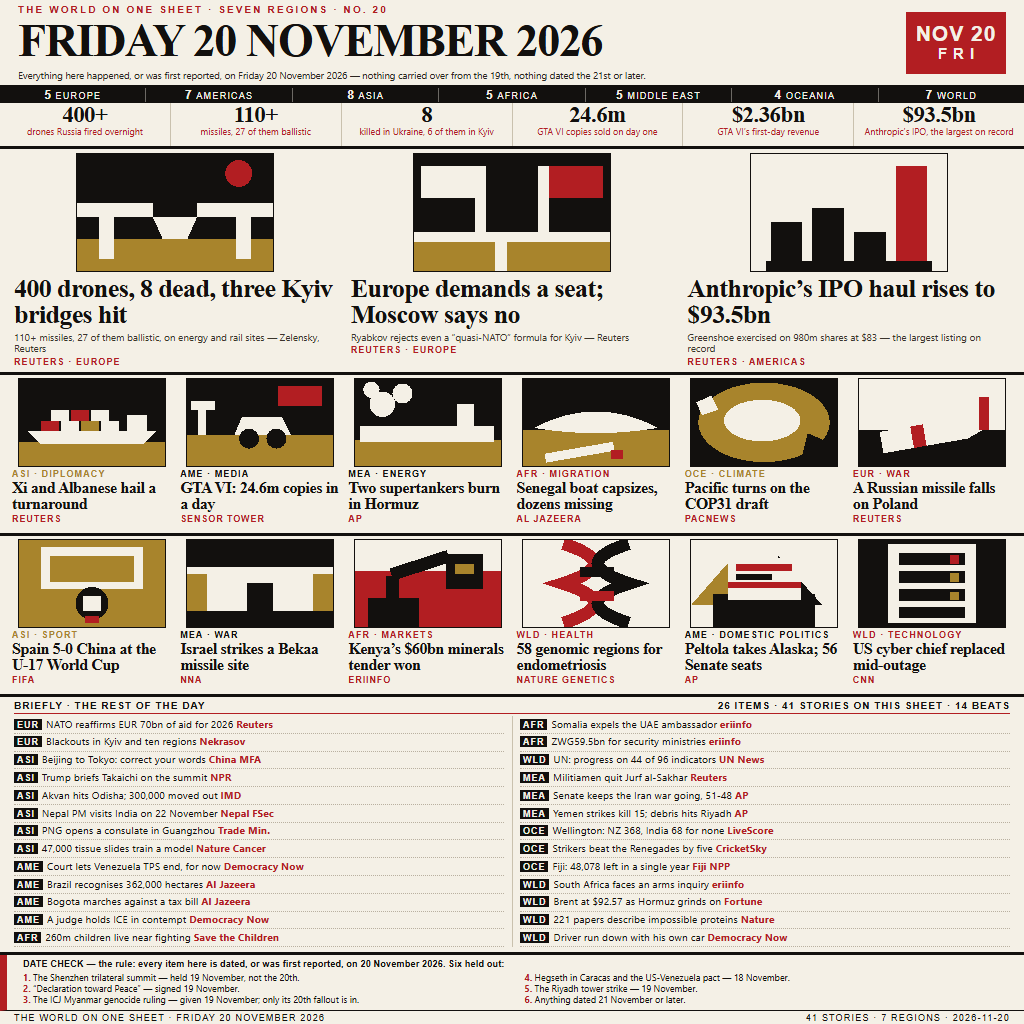
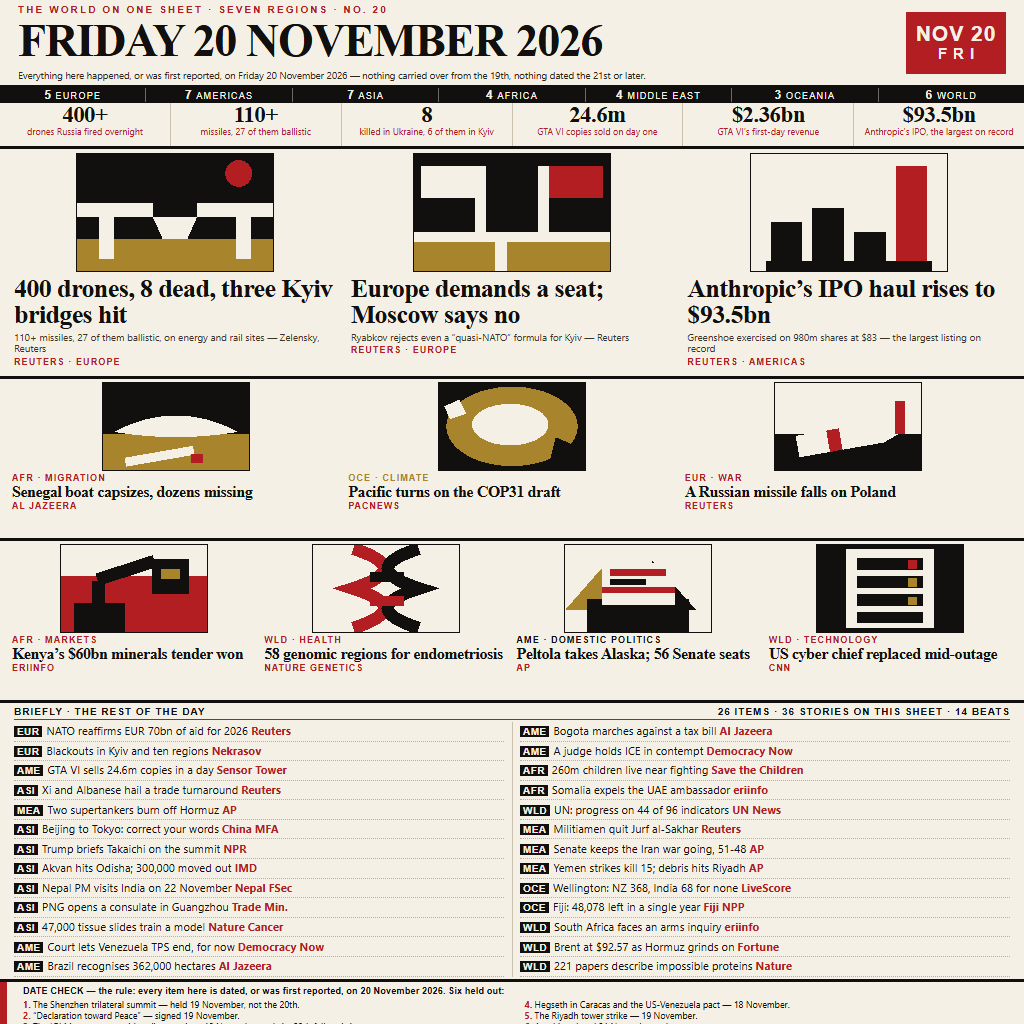
Revise: 36 stories in 2 columns at 11.2px, 10 larger drawings, date-check kept

Changed region(s): [[0.0, 0.3438, 1.0, 1.0]]

diff --git a/page.html b/page.html
@@ -35,7 +35,7 @@ html,body{width:1024px;height:1024px;overflow:hidden;background:#f4f0e6;color:#1
 .numbers .lb{font-family:"Segoe UI",Arial,sans-serif;font-size:9px;line-height:10.4px;color:#b21e22;
   text-align:center;max-width:100%;height:21px;overflow:visible}
 
-.leads{height:226px;display:flex;padding:4px 14px 4px;gap:14px;border-bottom:3px solid #12100e}
+.leads{height:230px;display:flex;padding:4px 14px 4px;gap:14px;border-bottom:3px solid #12100e}
 .lead{flex:1;min-width:0;display:flex;flex-direction:column}
 .lead .artbox{width:198px;height:118.8px;margin:0 auto;border:1px solid #12100e}
 .lead h2{font-size:26px;line-height:26px;font-weight:700;letter-spacing:-.6px;margin-top:4px}
@@ -44,8 +44,8 @@ html,body{width:1024px;height:1024px;overflow:hidden;background:#f4f0e6;color:#1
 .lead .ft{font-family:Arial,Helvetica,sans-serif;font-size:9px;letter-spacing:1.1px;
   text-transform:uppercase;margin-top:3px;color:#b21e22;font-weight:700}
 
-.bandrow{height:161px;display:flex;padding:3px 12px;gap:9px;border-bottom:3px solid #12100e}
-.bandrow.b{height:161px}
+.bandrow{height:162px;display:flex;padding:3px 12px;gap:9px;border-bottom:3px solid #12100e}
+.bandrow.b{height:162px}
 .card{flex:1;min-width:0;display:flex;flex-direction:column}
 .card .artbox{width:148px;height:88.8px;margin:0 auto;border:1px solid #12100e}
 .card .tag{font-family:Arial,Helvetica,sans-serif;font-size:9px;font-weight:700;letter-spacing:1.1px;
@@ -54,15 +54,15 @@ html,body{width:1024px;height:1024px;overflow:hidden;background:#f4f0e6;color:#1
 .card .cft{font-family:Arial,Helvetica,sans-serif;font-size:9px;letter-spacing:.9px;
   text-transform:uppercase;color:#b21e22;font-weight:700;margin-top:1px;line-height:10px}
 
-.briefs{height:258px;padding:2px 14px 2px;border-bottom:3px solid #12100e}
+.briefs{height:279px;padding:2px 14px 2px;border-bottom:3px solid #12100e}
 .bh{font-family:Arial,Helvetica,sans-serif;font-size:10px;font-weight:700;letter-spacing:1.9px;
   text-transform:uppercase;color:#b21e22;line-height:14px;border-bottom:1px solid #b21e22;
   margin-bottom:2px;display:flex;justify-content:space-between}
 .bh span{color:#12100e;letter-spacing:1px}
 .bcols{columns:2;column-gap:16px;column-rule:1px solid #c9c1ae}
-.brief{font-family:"Segoe UI",Arial,sans-serif;font-size:10.4px;line-height:11.8px;
-  padding:2.6px 0 2.4px;border-bottom:1px dotted #b9b0a0;break-inside:avoid}
-.brief .rt{font-family:Arial,Helvetica,sans-serif;font-size:9.4px;font-weight:700;letter-spacing:.7px;
+.brief{font-family:"Segoe UI",Arial,sans-serif;font-size:11.2px;line-height:13.2px;
+  padding:2.2px 0 2.2px;border-bottom:1px dotted #b9b0a0;break-inside:avoid}
+.brief .rt{font-family:Arial,Helvetica,sans-serif;font-size:9.6px;font-weight:700;letter-spacing:.7px;
   background:#12100e;color:#f4f0e6;padding:0 3px;margin-right:4px}
 .brief .ot{color:#b21e22;font-weight:700}
 
@@ -88,7 +88,7 @@ html,body{width:1024px;height:1024px;overflow:hidden;background:#f4f0e6;color:#1
     <div class="redblock"><div class="big">NOV 20</div><div class="sm">FRI</div></div>
   </div>
 
-  <div class="band tally"><div data-region-tally="Europe"><b>5</b>Europe</div><div data-region-tally="Americas"><b>7</b>Americas</div><div data-region-tally="Asia"><b>8</b>Asia</div><div data-region-tally="Africa"><b>5</b>Africa</div><div data-region-tally="Middle East"><b>5</b>Middle East</div><div data-region-tally="Oceania"><b>4</b>Oceania</div><div data-region-tally="World"><b>7</b>World</div></div>
+  <div class="band tally"><div data-region-tally="Europe"><b>5</b>Europe</div><div data-region-tally="Americas"><b>7</b>Americas</div><div data-region-tally="Asia"><b>7</b>Asia</div><div data-region-tally="Africa"><b>4</b>Africa</div><div data-region-tally="Middle East"><b>4</b>Middle East</div><div data-region-tally="Oceania"><b>3</b>Oceania</div><div data-region-tally="World"><b>6</b>World</div></div>
 
   <div class="band numbers"><div class="n"><div class="v">400+</div><div class="lb">drones Russia fired overnight</div></div><div class="n"><div class="v">110+</div><div class="lb">missiles, 27 of them ballistic</div></div><div class="n"><div class="v">8</div><div class="lb">killed in Ukraine, 6 of them in Kyiv</div></div><div class="n"><div class="v">24.6m</div><div class="lb">GTA VI copies sold on day one</div></div><div class="n"><div class="v">$2.36bn</div><div class="lb">GTA VI’s first-day revenue</div></div><div class="n"><div class="v">$93.5bn</div><div class="lb">Anthropic’s IPO, the largest on record</div></div></div>
 
@@ -131,49 +131,7 @@ html,body{width:1024px;height:1024px;overflow:hidden;background:#f4f0e6;color:#1
       <div class="ft">Reuters · Americas</div>
     </div></div>
 
-  <div class="band bandrow"><div class="card" data-region="Asia" data-beat="diplomacy" data-outlet="Reuters">
-      <div class="artbox" data-art="ship"><svg aria-label="Xi and Albanese hail a turnaround" viewBox="0 0 160 96" width="100%" height="100%" preserveAspectRatio="none" shape-rendering="crispEdges">
-  <rect x="0" y="0" width="160" height="96" fill="#12100e"/>
-  <rect x="0" y="70" width="160" height="26" fill="#a8842c"/>
-  <polygon points="10,58 150,58 136,72 24,72" fill="#f4f0e6"/>
-  <rect x="118" y="40" width="22" height="18" fill="#f4f0e6"/>
-  <rect x="24" y="46" width="20" height="12" fill="#b21e22"/>
-  <rect x="46" y="46" width="20" height="12" fill="#f4f0e6"/>
-  <rect x="68" y="46" width="20" height="12" fill="#a8842c"/>
-  <rect x="90" y="46" width="20" height="12" fill="#f4f0e6"/>
-  <rect x="35" y="34" width="20" height="12" fill="#f4f0e6"/>
-  <rect x="57" y="34" width="20" height="12" fill="#b21e22"/>
-  <rect x="79" y="34" width="20" height="12" fill="#f4f0e6"/></svg></div>
-      <div class="tag" style="color:#a8842c">ASI · diplomacy</div>
-      <h3>Xi and Albanese hail a turnaround</h3>
-      <div class="cft">Reuters</div>
-    </div><div class="card" data-region="Americas" data-beat="media" data-outlet="Sensor Tower">
-      <div class="artbox" data-art="car"><svg aria-label="GTA VI: 24.6m copies in a day" viewBox="0 0 160 96" width="100%" height="100%" preserveAspectRatio="none" shape-rendering="crispEdges">
-  <rect x="0" y="0" width="160" height="96" fill="#12100e"/>
-  <rect x="0" y="62" width="160" height="34" fill="#a8842c"/>
-  <rect x="100" y="8" width="48" height="22" fill="#b21e22"/>
-  <rect x="12" y="34" width="9" height="28" fill="#f4f0e6"/>
-  <rect x="4" y="24" width="13" height="10" fill="#f4f0e6"/>
-  <rect x="18" y="24" width="13" height="10" fill="#f4f0e6"/>
-  <polygon points="52,62 60,42 104,42 114,62" fill="#f4f0e6"/>
-  <circle cx="68" cy="66" r="11" fill="#12100e"/>
-  <circle cx="98" cy="66" r="11" fill="#12100e"/></svg></div>
-      <div class="tag" style="color:#12100e">AME · media</div>
-      <h3>GTA VI: 24.6m copies in a day</h3>
-      <div class="cft">Sensor Tower</div>
-    </div><div class="card" data-region="Middle East" data-beat="energy" data-outlet="AP">
-      <div class="artbox" data-art="tanker"><svg aria-label="Two supertankers burn in Hormuz" viewBox="0 0 160 96" width="100%" height="100%" preserveAspectRatio="none" shape-rendering="crispEdges">
-  <rect x="0" y="0" width="160" height="96" fill="#12100e"/>
-  <rect x="0" y="68" width="160" height="28" fill="#a8842c"/>
-  <rect x="6" y="52" width="146" height="18" fill="#f4f0e6"/>
-  <rect x="112" y="28" width="18" height="26" fill="#f4f0e6"/>
-  <circle cx="30" cy="28" r="14" fill="#f4f0e6"/>
-  <circle cx="52" cy="16" r="11" fill="#f4f0e6"/>
-  <circle cx="18" cy="12" r="9" fill="#f4f0e6"/></svg></div>
-      <div class="tag" style="color:#12100e">MEA · energy</div>
-      <h3>Two supertankers burn in Hormuz</h3>
-      <div class="cft">AP</div>
-    </div><div class="card" data-region="Africa" data-beat="migration" data-outlet="Al Jazeera">
+  <div class="band bandrow"><div class="card" data-region="Africa" data-beat="migration" data-outlet="Al Jazeera">
       <div class="artbox" data-art="pirogue"><svg aria-label="Senegal boat capsizes, dozens missing" viewBox="0 0 160 96" width="100%" height="100%" preserveAspectRatio="none" shape-rendering="crispEdges">
   <rect x="0" y="0" width="160" height="96" fill="#12100e"/>
   <rect x="0" y="56" width="160" height="40" fill="#a8842c"/>
@@ -211,31 +169,7 @@ html,body{width:1024px;height:1024px;overflow:hidden;background:#f4f0e6;color:#1
       <div class="cft">Reuters</div>
     </div></div>
 
-  <div class="band bandrow b"><div class="card" data-region="Asia" data-beat="sport" data-outlet="FIFA">
-      <div class="artbox" data-art="football"><svg aria-label="Spain 5-0 China at the U-17 World Cup" viewBox="0 0 160 96" width="100%" height="100%" preserveAspectRatio="none" shape-rendering="crispEdges">
-  <rect x="0" y="0" width="160" height="96" fill="#a8842c"/>
-  <rect x="24" y="8" width="112" height="10" fill="#f4f0e6"/>
-  <rect x="24" y="8" width="10" height="46" fill="#f4f0e6"/>
-  <rect x="126" y="8" width="10" height="46" fill="#f4f0e6"/>
-  <rect x="34" y="46" width="92" height="8" fill="#f4f0e6"/>
-  <circle cx="80" cy="70" r="18" fill="#12100e"/>
-  <rect x="70" y="62" width="20" height="16" fill="#f4f0e6"/>
-  <rect x="72" y="84" width="16" height="8" fill="#b21e22"/></svg></div>
-      <div class="tag" style="color:#a8842c">ASI · sport</div>
-      <h3>Spain 5-0 China at the U-17 World Cup</h3>
-      <div class="cft">FIFA</div>
-    </div><div class="card" data-region="Middle East" data-beat="war" data-outlet="NNA">
-      <div class="artbox" data-art="bunker"><svg aria-label="Israel strikes a Bekaa missile site" viewBox="0 0 160 96" width="100%" height="100%" preserveAspectRatio="none" shape-rendering="crispEdges">
-  <rect x="0" y="0" width="160" height="96" fill="#a8842c"/>
-  <rect x="0" y="0" width="160" height="30" fill="#12100e"/>
-  <rect x="0" y="30" width="160" height="8" fill="#f4f0e6"/>
-  <rect x="22" y="38" width="116" height="40" fill="#f4f0e6"/>
-  <rect x="66" y="48" width="28" height="30" fill="#12100e"/>
-  <rect x="0" y="78" width="160" height="18" fill="#12100e"/></svg></div>
-      <div class="tag" style="color:#12100e">MEA · war</div>
-      <h3>Israel strikes a Bekaa missile site</h3>
-      <div class="cft">NNA</div>
-    </div><div class="card" data-region="Africa" data-beat="markets" data-outlet="eriinfo">
+  <div class="band bandrow b"><div class="card" data-region="Africa" data-beat="markets" data-outlet="eriinfo">
       <div class="artbox" data-art="excavator"><svg aria-label="Kenya’s $60bn minerals tender won" viewBox="0 0 160 96" width="100%" height="100%" preserveAspectRatio="none" shape-rendering="crispEdges">
   <rect x="0" y="0" width="160" height="96" fill="#b21e22"/>
   <rect x="0" y="0" width="160" height="34" fill="#f4f0e6"/>
@@ -288,8 +222,8 @@ html,body{width:1024px;height:1024px;overflow:hidden;background:#f4f0e6;color:#1
     </div></div>
 
   <div class="band briefs">
-    <div class="bh"><span>Briefly · the rest of the day</span><span>26 items · 41 stories on this sheet · 14 beats</span></div>
-    <div class="bcols"><div class="brief" data-region="Europe" data-beat="markets" data-outlet="Reuters"><span class="rt">EUR</span>NATO reaffirms EUR 70bn of aid for 2026 <span class="ot">Reuters</span></div><div class="brief" data-region="Europe" data-beat="energy" data-outlet="Nekrasov"><span class="rt">EUR</span>Blackouts in Kyiv and ten regions <span class="ot">Nekrasov</span></div><div class="brief" data-region="Asia" data-beat="diplomacy" data-outlet="China MFA"><span class="rt">ASI</span>Beijing to Tokyo: correct your words <span class="ot">China MFA</span></div><div class="brief" data-region="Asia" data-beat="diplomacy" data-outlet="NPR"><span class="rt">ASI</span>Trump briefs Takaichi on the summit <span class="ot">NPR</span></div><div class="brief" data-region="Asia" data-beat="disaster" data-outlet="IMD"><span class="rt">ASI</span>Akvan hits Odisha; 300,000 moved out <span class="ot">IMD</span></div><div class="brief" data-region="Asia" data-beat="diplomacy" data-outlet="Nepal FSec"><span class="rt">ASI</span>Nepal PM visits India on 22 November <span class="ot">Nepal FSec</span></div><div class="brief" data-region="Asia" data-beat="markets" data-outlet="Trade Min."><span class="rt">ASI</span>PNG opens a consulate in Guangzhou <span class="ot">Trade Min.</span></div><div class="brief" data-region="Asia" data-beat="science" data-outlet="Nature Cancer"><span class="rt">ASI</span>47,000 tissue slides train a model <span class="ot">Nature Cancer</span></div><div class="brief" data-region="Americas" data-beat="courts" data-outlet="Democracy Now"><span class="rt">AME</span>Court lets Venezuela TPS end, for now <span class="ot">Democracy Now</span></div><div class="brief" data-region="Americas" data-beat="climate" data-outlet="Al Jazeera"><span class="rt">AME</span>Brazil recognises 362,000 hectares <span class="ot">Al Jazeera</span></div><div class="brief" data-region="Americas" data-beat="domestic politics" data-outlet="Al Jazeera"><span class="rt">AME</span>Bogota marches against a tax bill <span class="ot">Al Jazeera</span></div><div class="brief" data-region="Americas" data-beat="courts" data-outlet="Democracy Now"><span class="rt">AME</span>A judge holds ICE in contempt <span class="ot">Democracy Now</span></div><div class="brief" data-region="Africa" data-beat="war" data-outlet="Save the Children"><span class="rt">AFR</span>260m children live near fighting <span class="ot">Save the Children</span></div><div class="brief" data-region="Africa" data-beat="diplomacy" data-outlet="eriinfo"><span class="rt">AFR</span>Somalia expels the UAE ambassador <span class="ot">eriinfo</span></div><div class="brief" data-region="Africa" data-beat="markets" data-outlet="eriinfo"><span class="rt">AFR</span>ZWG59.5bn for security ministries <span class="ot">eriinfo</span></div><div class="brief" data-region="World" data-beat="climate" data-outlet="UN News"><span class="rt">WLD</span>UN: progress on 44 of 96 indicators <span class="ot">UN News</span></div><div class="brief" data-region="Middle East" data-beat="war" data-outlet="Reuters"><span class="rt">MEA</span>Militiamen quit Jurf al-Sakhar <span class="ot">Reuters</span></div><div class="brief" data-region="Middle East" data-beat="domestic politics" data-outlet="AP"><span class="rt">MEA</span>Senate keeps the Iran war going, 51-48 <span class="ot">AP</span></div><div class="brief" data-region="Middle East" data-beat="war" data-outlet="AP"><span class="rt">MEA</span>Yemen strikes kill 15; debris hits Riyadh <span class="ot">AP</span></div><div class="brief" data-region="Oceania" data-beat="sport" data-outlet="LiveScore"><span class="rt">OCE</span>Wellington: NZ 368, India 68 for none <span class="ot">LiveScore</span></div><div class="brief" data-region="Oceania" data-beat="sport" data-outlet="CricketSky"><span class="rt">OCE</span>Strikers beat the Renegades by five <span class="ot">CricketSky</span></div><div class="brief" data-region="Oceania" data-beat="migration" data-outlet="Fiji NPP"><span class="rt">OCE</span>Fiji: 48,078 left in a single year <span class="ot">Fiji NPP</span></div><div class="brief" data-region="World" data-beat="courts" data-outlet="eriinfo"><span class="rt">WLD</span>South Africa faces an arms inquiry <span class="ot">eriinfo</span></div><div class="brief" data-region="World" data-beat="energy" data-outlet="Fortune"><span class="rt">WLD</span>Brent at $92.57 as Hormuz grinds on <span class="ot">Fortune</span></div><div class="brief" data-region="World" data-beat="science" data-outlet="Nature"><span class="rt">WLD</span>221 papers describe impossible proteins <span class="ot">Nature</span></div><div class="brief" data-region="World" data-beat="domestic politics" data-outlet="Democracy Now"><span class="rt">WLD</span>Driver run down with his own car <span class="ot">Democracy Now</span></div></div>
+    <div class="bh"><span>Briefly · the rest of the day</span><span>26 items · 36 stories on this sheet · 14 beats</span></div>
+    <div class="bcols"><div class="brief" data-region="Europe" data-beat="markets" data-outlet="Reuters"><span class="rt">EUR</span>NATO reaffirms EUR 70bn of aid for 2026 <span class="ot">Reuters</span></div><div class="brief" data-region="Europe" data-beat="energy" data-outlet="Nekrasov"><span class="rt">EUR</span>Blackouts in Kyiv and ten regions <span class="ot">Nekrasov</span></div><div class="brief" data-region="Americas" data-beat="media" data-outlet="Sensor Tower"><span class="rt">AME</span>GTA VI sells 24.6m copies in a day <span class="ot">Sensor Tower</span></div><div class="brief" data-region="Asia" data-beat="diplomacy" data-outlet="Reuters"><span class="rt">ASI</span>Xi and Albanese hail a trade turnaround <span class="ot">Reuters</span></div><div class="brief" data-region="Middle East" data-beat="energy" data-outlet="AP"><span class="rt">MEA</span>Two supertankers burn off Hormuz <span class="ot">AP</span></div><div class="brief" data-region="Asia" data-beat="diplomacy" data-outlet="China MFA"><span class="rt">ASI</span>Beijing to Tokyo: correct your words <span class="ot">China MFA</span></div><div class="brief" data-region="Asia" data-beat="diplomacy" data-outlet="NPR"><span class="rt">ASI</span>Trump briefs Takaichi on the summit <span class="ot">NPR</span></div><div class="brief" data-region="Asia" data-beat="disaster" data-outlet="IMD"><span class="rt">ASI</span>Akvan hits Odisha; 300,000 moved out <span class="ot">IMD</span></div><div class="brief" data-region="Asia" data-beat="diplomacy" data-outlet="Nepal FSec"><span class="rt">ASI</span>Nepal PM visits India on 22 November <span class="ot">Nepal FSec</span></div><div class="brief" data-region="Asia" data-beat="markets" data-outlet="Trade Min."><span class="rt">ASI</span>PNG opens a consulate in Guangzhou <span class="ot">Trade Min.</span></div><div class="brief" data-region="Asia" data-beat="science" data-outlet="Nature Cancer"><span class="rt">ASI</span>47,000 tissue slides train a model <span class="ot">Nature Cancer</span></div><div class="brief" data-region="Americas" data-beat="courts" data-outlet="Democracy Now"><span class="rt">AME</span>Court lets Venezuela TPS end, for now <span class="ot">Democracy Now</span></div><div class="brief" data-region="Americas" data-beat="climate" data-outlet="Al Jazeera"><span class="rt">AME</span>Brazil recognises 362,000 hectares <span class="ot">Al Jazeera</span></div><div class="brief" data-region="Americas" data-beat="domestic politics" data-outlet="Al Jazeera"><span class="rt">AME</span>Bogota marches against a tax bill <span class="ot">Al Jazeera</span></div><div class="brief" data-region="Americas" data-beat="courts" data-outlet="Democracy Now"><span class="rt">AME</span>A judge holds ICE in contempt <span class="ot">Democracy Now</span></div><div class="brief" data-region="Africa" data-beat="war" data-outlet="Save the Children"><span class="rt">AFR</span>260m children live near fighting <span class="ot">Save the Children</span></div><div class="brief" data-region="Africa" data-beat="diplomacy" data-outlet="eriinfo"><span class="rt">AFR</span>Somalia expels the UAE ambassador <span class="ot">eriinfo</span></div><div class="brief" data-region="World" data-beat="climate" data-outlet="UN News"><span class="rt">WLD</span>UN: progress on 44 of 96 indicators <span class="ot">UN News</span></div><div class="brief" data-region="Middle East" data-beat="war" data-outlet="Reuters"><span class="rt">MEA</span>Militiamen quit Jurf al-Sakhar <span class="ot">Reuters</span></div><div class="brief" data-region="Middle East" data-beat="domestic politics" data-outlet="AP"><span class="rt">MEA</span>Senate keeps the Iran war going, 51-48 <span class="ot">AP</span></div><div class="brief" data-region="Middle East" data-beat="war" data-outlet="AP"><span class="rt">MEA</span>Yemen strikes kill 15; debris hits Riyadh <span class="ot">AP</span></div><div class="brief" data-region="Oceania" data-beat="sport" data-outlet="LiveScore"><span class="rt">OCE</span>Wellington: NZ 368, India 68 for none <span class="ot">LiveScore</span></div><div class="brief" data-region="Oceania" data-beat="migration" data-outlet="Fiji NPP"><span class="rt">OCE</span>Fiji: 48,078 left in a single year <span class="ot">Fiji NPP</span></div><div class="brief" data-region="World" data-beat="courts" data-outlet="eriinfo"><span class="rt">WLD</span>South Africa faces an arms inquiry <span class="ot">eriinfo</span></div><div class="brief" data-region="World" data-beat="energy" data-outlet="Fortune"><span class="rt">WLD</span>Brent at $92.57 as Hormuz grinds on <span class="ot">Fortune</span></div><div class="brief" data-region="World" data-beat="science" data-outlet="Nature"><span class="rt">WLD</span>221 papers describe impossible proteins <span class="ot">Nature</span></div></div>
   </div>
 
   <div class="band dc">
@@ -297,5 +231,5 @@ html,body{width:1024px;height:1024px;overflow:hidden;background:#f4f0e6;color:#1
     <div class="cols"><div class="ex"><b>1.</b> The Shenzhen trilateral summit — held 19 November, not the 20th.</div><div class="ex"><b>2.</b> “Declaration toward Peace” — signed 19 November.</div><div class="ex"><b>3.</b> The ICJ Myanmar genocide ruling — given 19 November; only its 20th fallout is in.</div><div class="ex"><b>4.</b> Hegseth in Caracas and the US-Venezuela pact — 18 November.</div><div class="ex"><b>5.</b> The Riyadh tower strike — 19 November.</div><div class="ex"><b>6.</b> Anything dated 21 November or later.</div></div>
   </div>
 
-  <div class="band foot"><span>The World on One Sheet · FRIDAY 20 NOVEMBER 2026</span><span>41 stories · 7 regions · 2026-11-20</span></div>
+  <div class="band foot"><span>The World on One Sheet · FRIDAY 20 NOVEMBER 2026</span><span>36 stories · 7 regions · 2026-11-20</span></div>
 </div></body></html>
